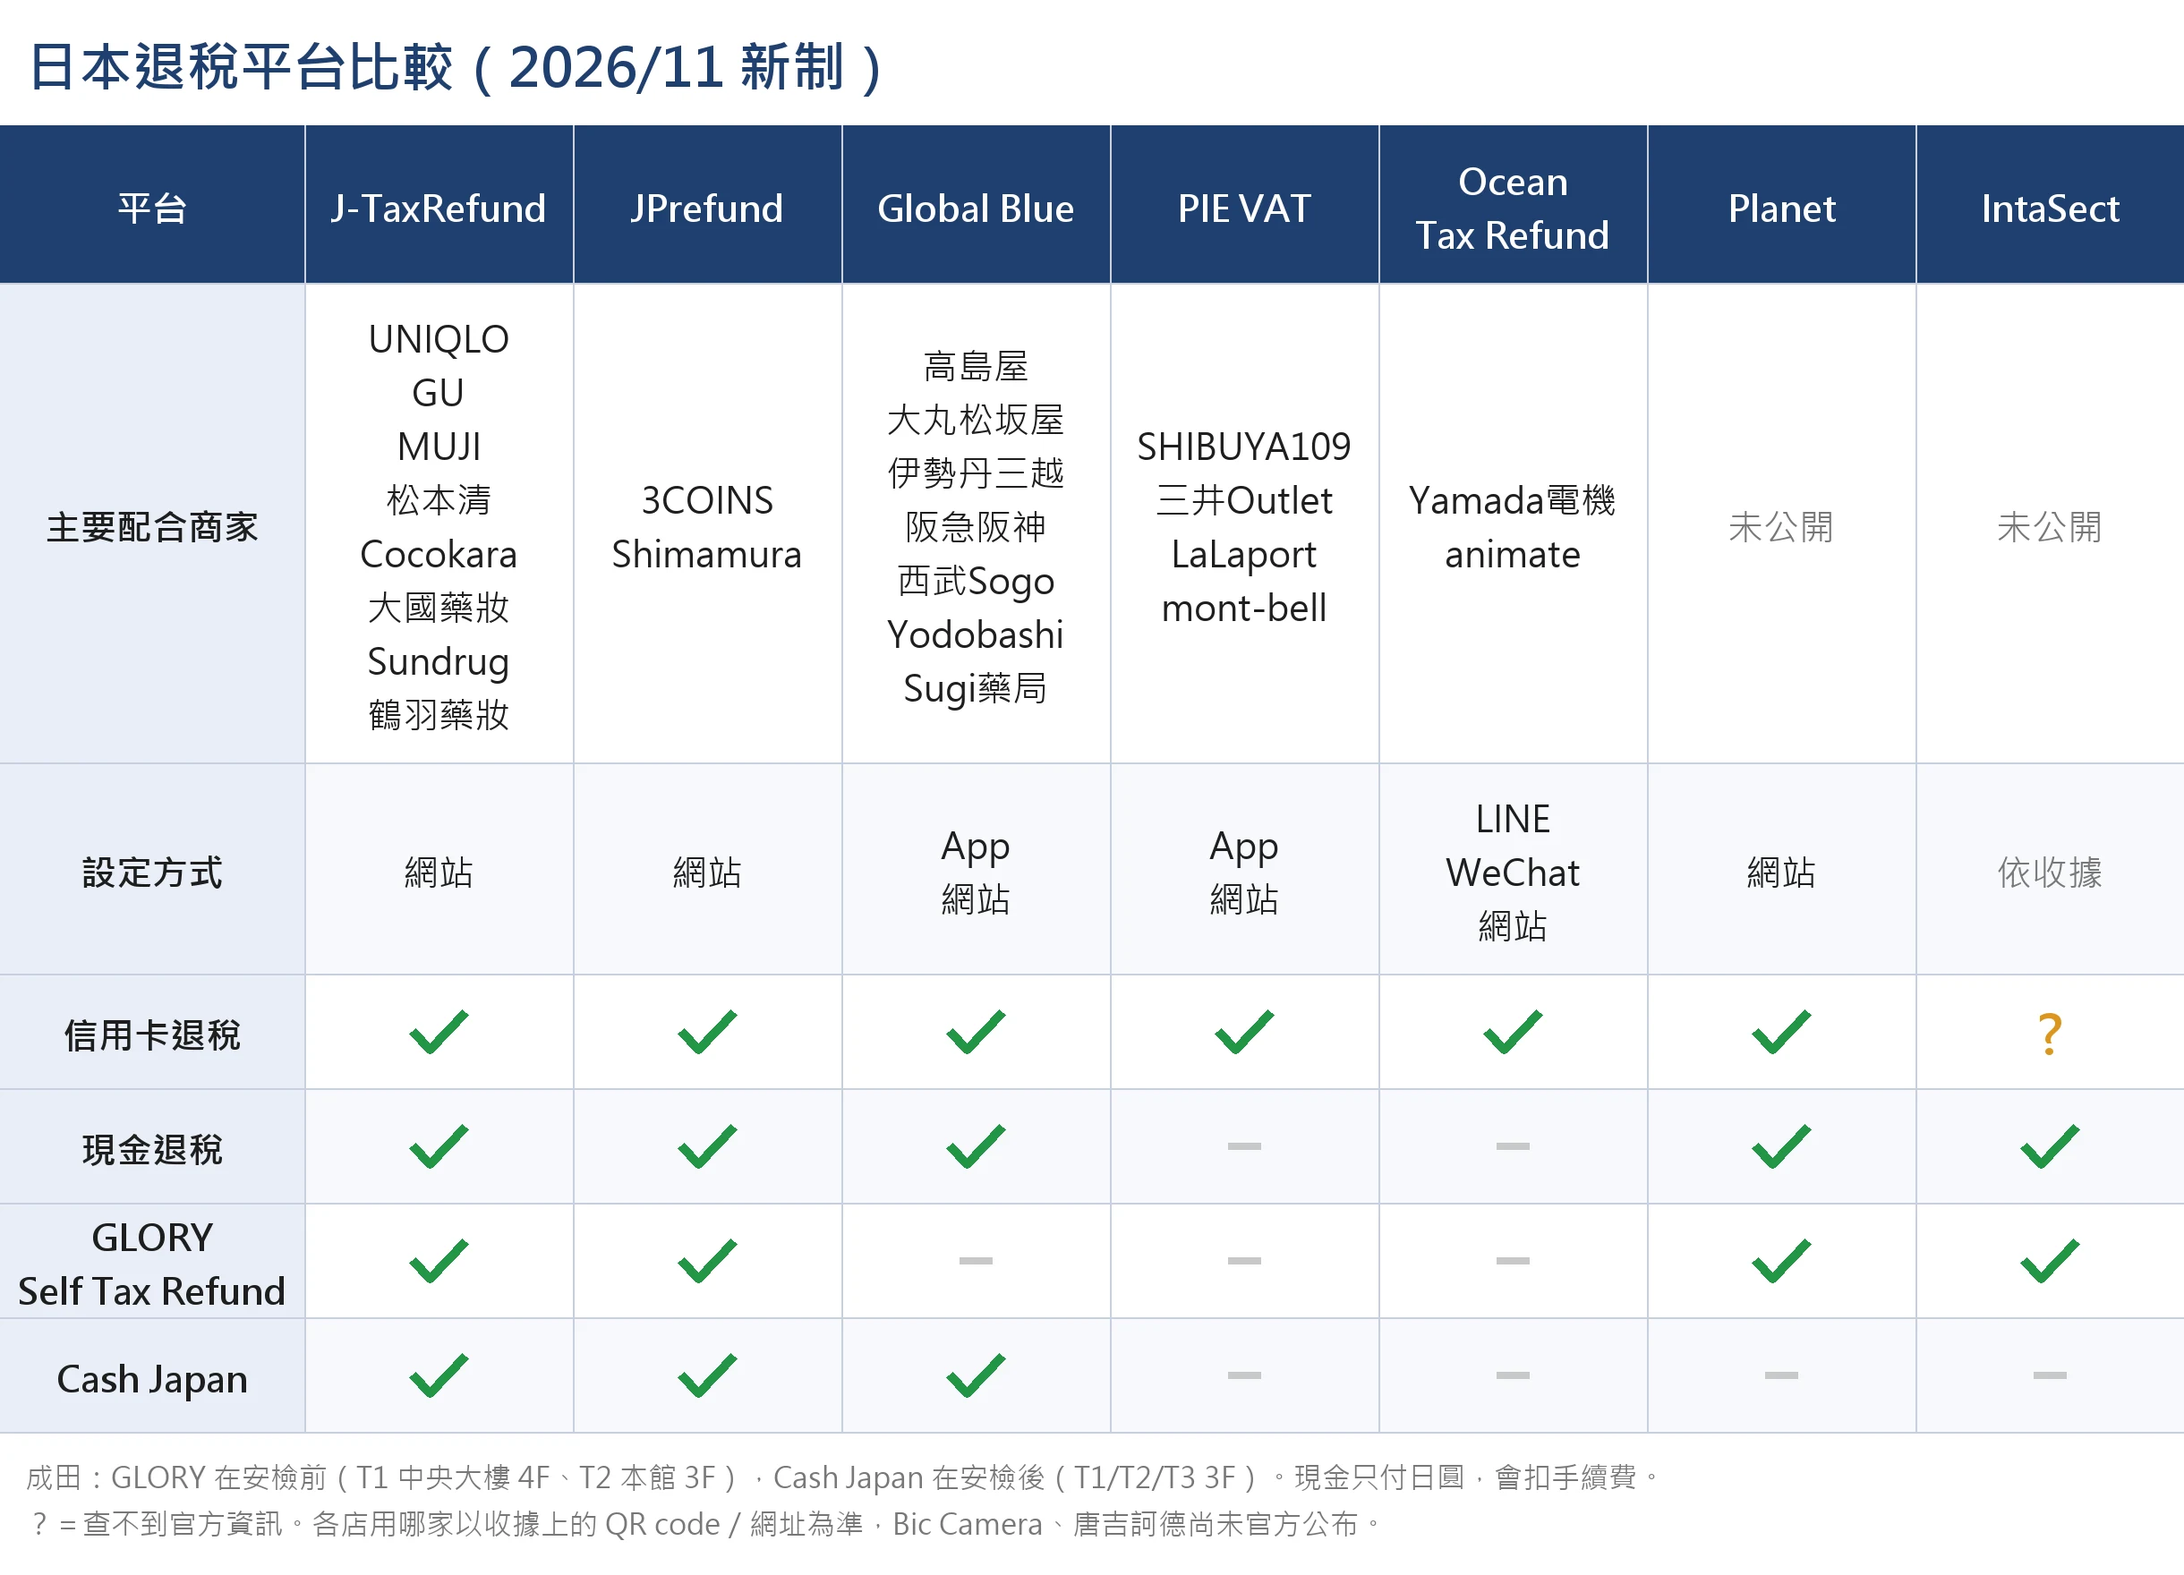
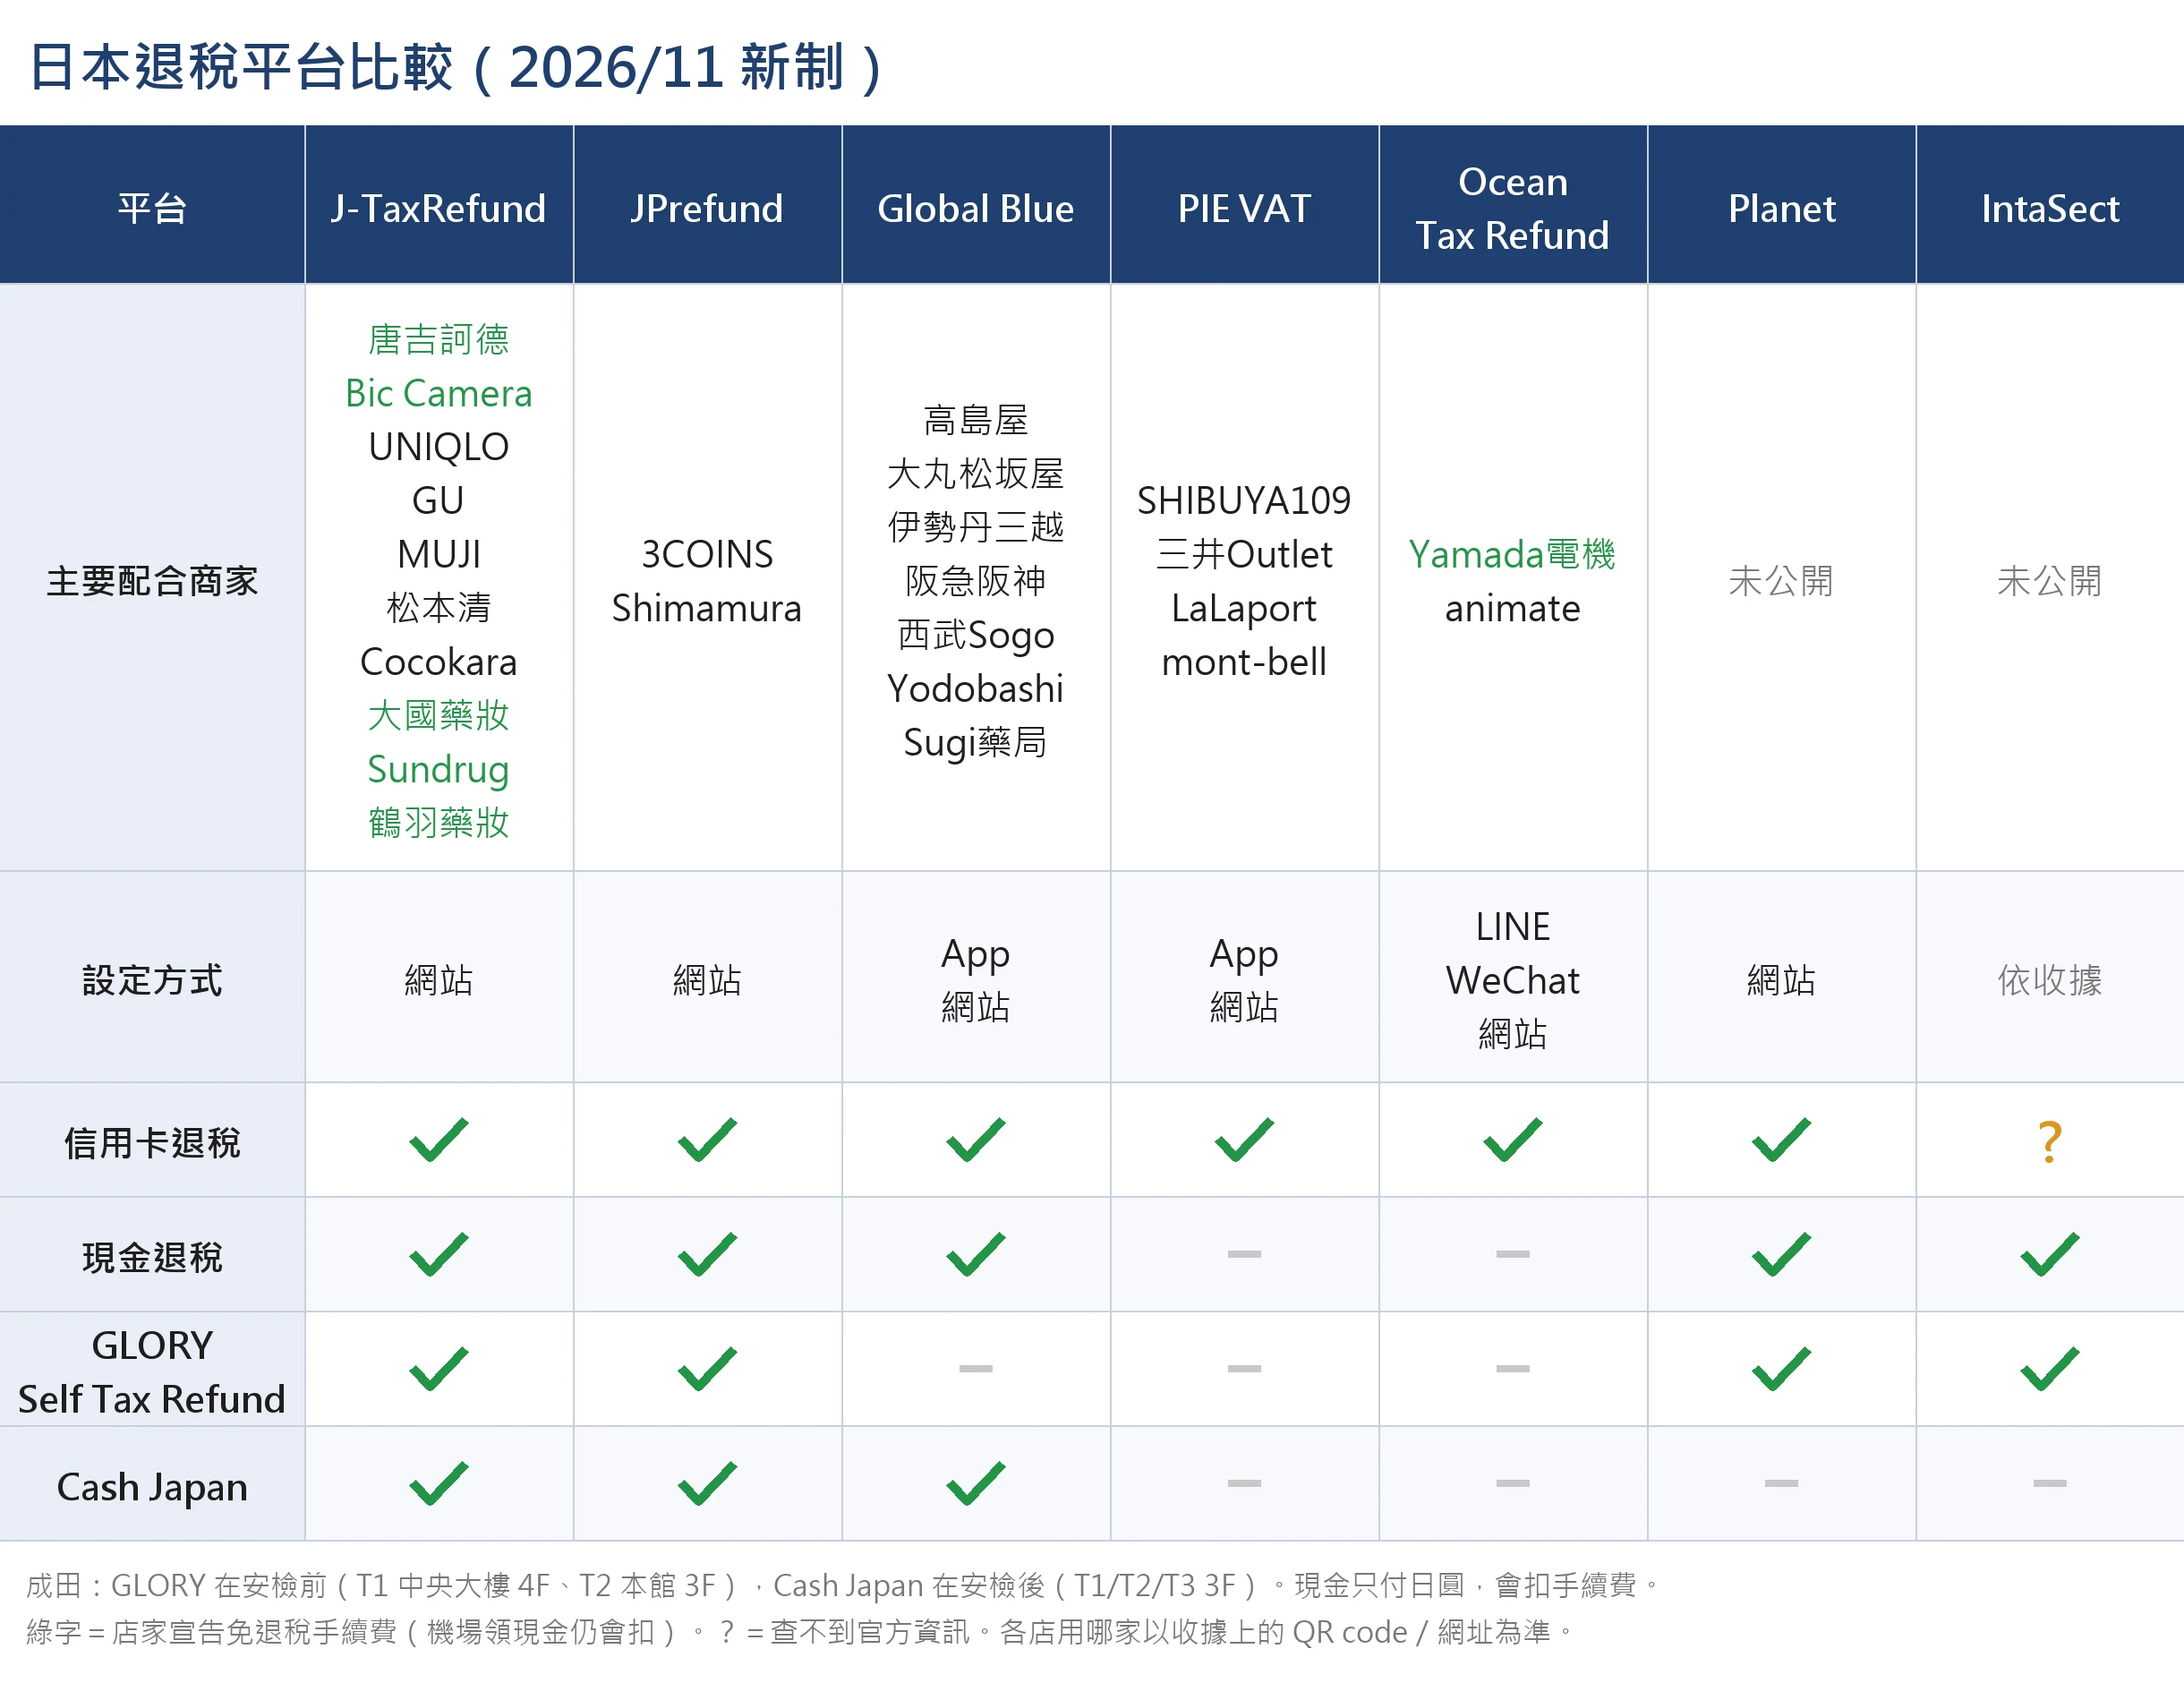
退稅比較表加唐吉訶德、Bic Camera，免手續費商家標綠字

diff --git a/sw.js b/sw.js
@@ -6,7 +6,7 @@
 //
 // 這支檔案由 scripts/build_sw.py 產生，不要直接改；新增圖片後重跑它。
 
-const CACHE = 'japan2027-v1';
+const CACHE = 'japan2027-v2';
 
 // 安裝時就先抓好的檔案（第一次開頁、有網路時完成）
 const PRECACHE = [

diff --git a/scripts/make_refund_table.py b/scripts/make_refund_table.py
@@ -16,15 +16,17 @@ FONT = 'C:/Windows/Fonts/msjh.ttc'
 FONT_B = 'C:/Windows/Fonts/msjhbd.ttc'
 
 # 打勾欄位：True=有、False=沒有、None=查不到（畫問號）
+# 商家名稱結尾加 * ＝已宣告免退稅手續費（畫成綠字，* 不會印出來）；機場領現金的手續費另計
 PLATFORMS = [
     # 名稱, 主要配合商家, 設定方式, 信用卡, 現金, GLORY, Cash Japan
-    ('J-TaxRefund', ['UNIQLO', 'GU', 'MUJI', '松本清', 'Cocokara', '大國藥妝', 'Sundrug', '鶴羽藥妝'],
+    ('J-TaxRefund', ['唐吉訶德*', 'Bic Camera*', 'UNIQLO', 'GU', 'MUJI', '松本清', 'Cocokara',
+                     '大國藥妝*', 'Sundrug*', '鶴羽藥妝*'],
      ['網站'], True, True, True, True),
     ('JPrefund', ['3COINS', 'Shimamura'], ['網站'], True, True, True, True),
     ('Global Blue', ['高島屋', '大丸松坂屋', '伊勢丹三越', '阪急阪神', '西武Sogo', 'Yodobashi', 'Sugi藥局'],
      ['App', '網站'], True, True, False, True),
     ('PIE VAT', ['SHIBUYA109', '三井Outlet', 'LaLaport', 'mont-bell'], ['App', '網站'], True, False, False, False),
-    ('Ocean\nTax Refund', ['Yamada電機', 'animate'], ['LINE', 'WeChat', '網站'], True, False, False, False),
+    ('Ocean\nTax Refund', ['Yamada電機*', 'animate'], ['LINE', 'WeChat', '網站'], True, False, False, False),
     ('Planet', ['未公開'], ['網站'], True, True, True, False),
     ('IntaSect', ['未公開'], ['依收據'], None, True, True, False),
 ]
@@ -47,6 +49,7 @@ C_SUB = (120, 120, 120)
 C_YES = (34, 150, 70)
 C_NO = (200, 200, 200)
 C_UNK = (220, 150, 30)
+C_FREE = (34, 150, 70)        # 免手續費的商家
 
 f_tx = ImageFont.truetype(FONT, 20 * S)
 f_b = ImageFont.truetype(FONT_B, 20 * S)
@@ -87,8 +90,11 @@ def center_text(box, text, font, fill):
     total = len(ls) * LINE_H
     y = (y0 + y1 - total) / 2
     for ln in ls:
+        col = fill
+        if ln.endswith('*'):          # 免手續費的商家畫綠字
+            ln, col = ln[:-1], C_FREE
         w = d.textlength(ln, font=font)
-        d.text(((x0 + x1 - w) / 2, y + (LINE_H - font.size) / 2 - 2 * S), ln, font=font, fill=fill)
+        d.text(((x0 + x1 - w) / 2, y + (LINE_H - font.size) / 2 - 2 * S), ln, font=font, fill=col)
         y += LINE_H
 
 
@@ -141,7 +147,7 @@ for ci in range(len(PLATFORMS) + 1):
 
 # 註腳
 notes = ['成田：GLORY 在安檢前（T1 中央大樓 4F、T2 本館 3F），Cash Japan 在安檢後（T1/T2/T3 3F）。現金只付日圓，會扣手續費。',
-         '？＝查不到官方資訊。各店用哪家以收據上的 QR code／網址為準，Bic Camera、唐吉訶德尚未官方公布。']
+         '綠字＝店家宣告免退稅手續費（機場領現金仍會扣）。？＝查不到官方資訊。各店用哪家以收據上的 QR code／網址為準。']
 ny = y + 14 * S
 for n in notes:
     d.text((PAD, ny), n, font=f_note, fill=C_SUB)

diff --git a/scripts/build_sw.py b/scripts/build_sw.py
@@ -8,7 +8,7 @@ import glob
 import io
 import os
 
-CACHE_VERSION = 'japan2027-v1'
+CACHE_VERSION = 'japan2027-v2'
 ROOT = os.path.dirname(os.path.dirname(os.path.abspath(__file__)))
 
 CORE = ['./', 'index.html', 'private.enc', 'manifest.webmanifest',

diff --git a/專案里程碑.md b/專案里程碑.md
@@ -54,7 +54,8 @@
 - 2026/11/1 起購物改為「先付含稅價、出境時海關確認後再退」，購買後 90 天內要出境；海關確認要在**託運行李前**做（Kiosk 掃護照或 VJW 連海關 Wi-Fi）。
 - 1/23 退稅那則（n087）已放：常用退稅平台連結、`退稅平台比較.webp`、成田現金退稅機位置。
 - 成田兩套現金機**支援的退稅公司不同**：GLORY 在安檢前、Cash Japan 在安檢後；Global Blue 只能在 Cash Japan 領。
-- 比較表由 `scripts/make_refund_table.py` 產生；商家對應多來自第三方彙整，出發前可再查一次有沒有變動（尤其 Bic Camera、唐吉訶德）。
+- 比較表由 `scripts/make_refund_table.py` 產生（商家名稱結尾加 `*` ＝免手續費、畫綠字）。**改了同檔名的圖片要把 `build_sw.py` 的 CACHE_VERSION 加一**，不然手機會一直拿快取的舊圖。
+- 商家對應多來自第三方彙整，出發前可再查一次有沒有變動（尤其 Bic Camera、唐吉訶德）。
 
 ## 測試日期（用面板切換）
 

diff --git a/變動紀錄.md b/變動紀錄.md
@@ -1,6 +1,17 @@
 
 # 變動紀錄
 
+## Modify - 2026/11/18 19:12:47
+
+**退稅平台比較表：加唐吉訶德、Bic Camera，免手續費商家標綠字**
+
+- J-TaxRefund 欄最前面加「唐吉訶德」「Bic Camera」（使用者指定；兩家官方都還沒公布用哪家，依媒體／旅客回報）。
+- 已宣告免退稅手續費的商家改成綠字：唐吉訶德、Bic Camera、大國藥妝、Sundrug、鶴羽藥妝、Yamada 電機。
+  松本清、Cocokara 只收匯款費（約 0.33%），不算免費，維持黑字。
+- 註腳改成「綠字＝店家宣告免退稅手續費（機場領現金仍會扣）」，拿掉「Bic、唐吉訶德尚未公布」那句。
+- `scripts/make_refund_table.py`：商家名稱結尾加 `*` 就畫成綠字。
+- **sw.js 快取版本 v1 → v2**：圖片是 cache-first、檔名沒變，不升版的話看過舊表的手機會一直顯示舊圖。
+
 ## Add - 2026/11/18 19:09:35
 
 **退稅那則加上常用退稅平台、平台比較表、成田現金退稅機位置**
